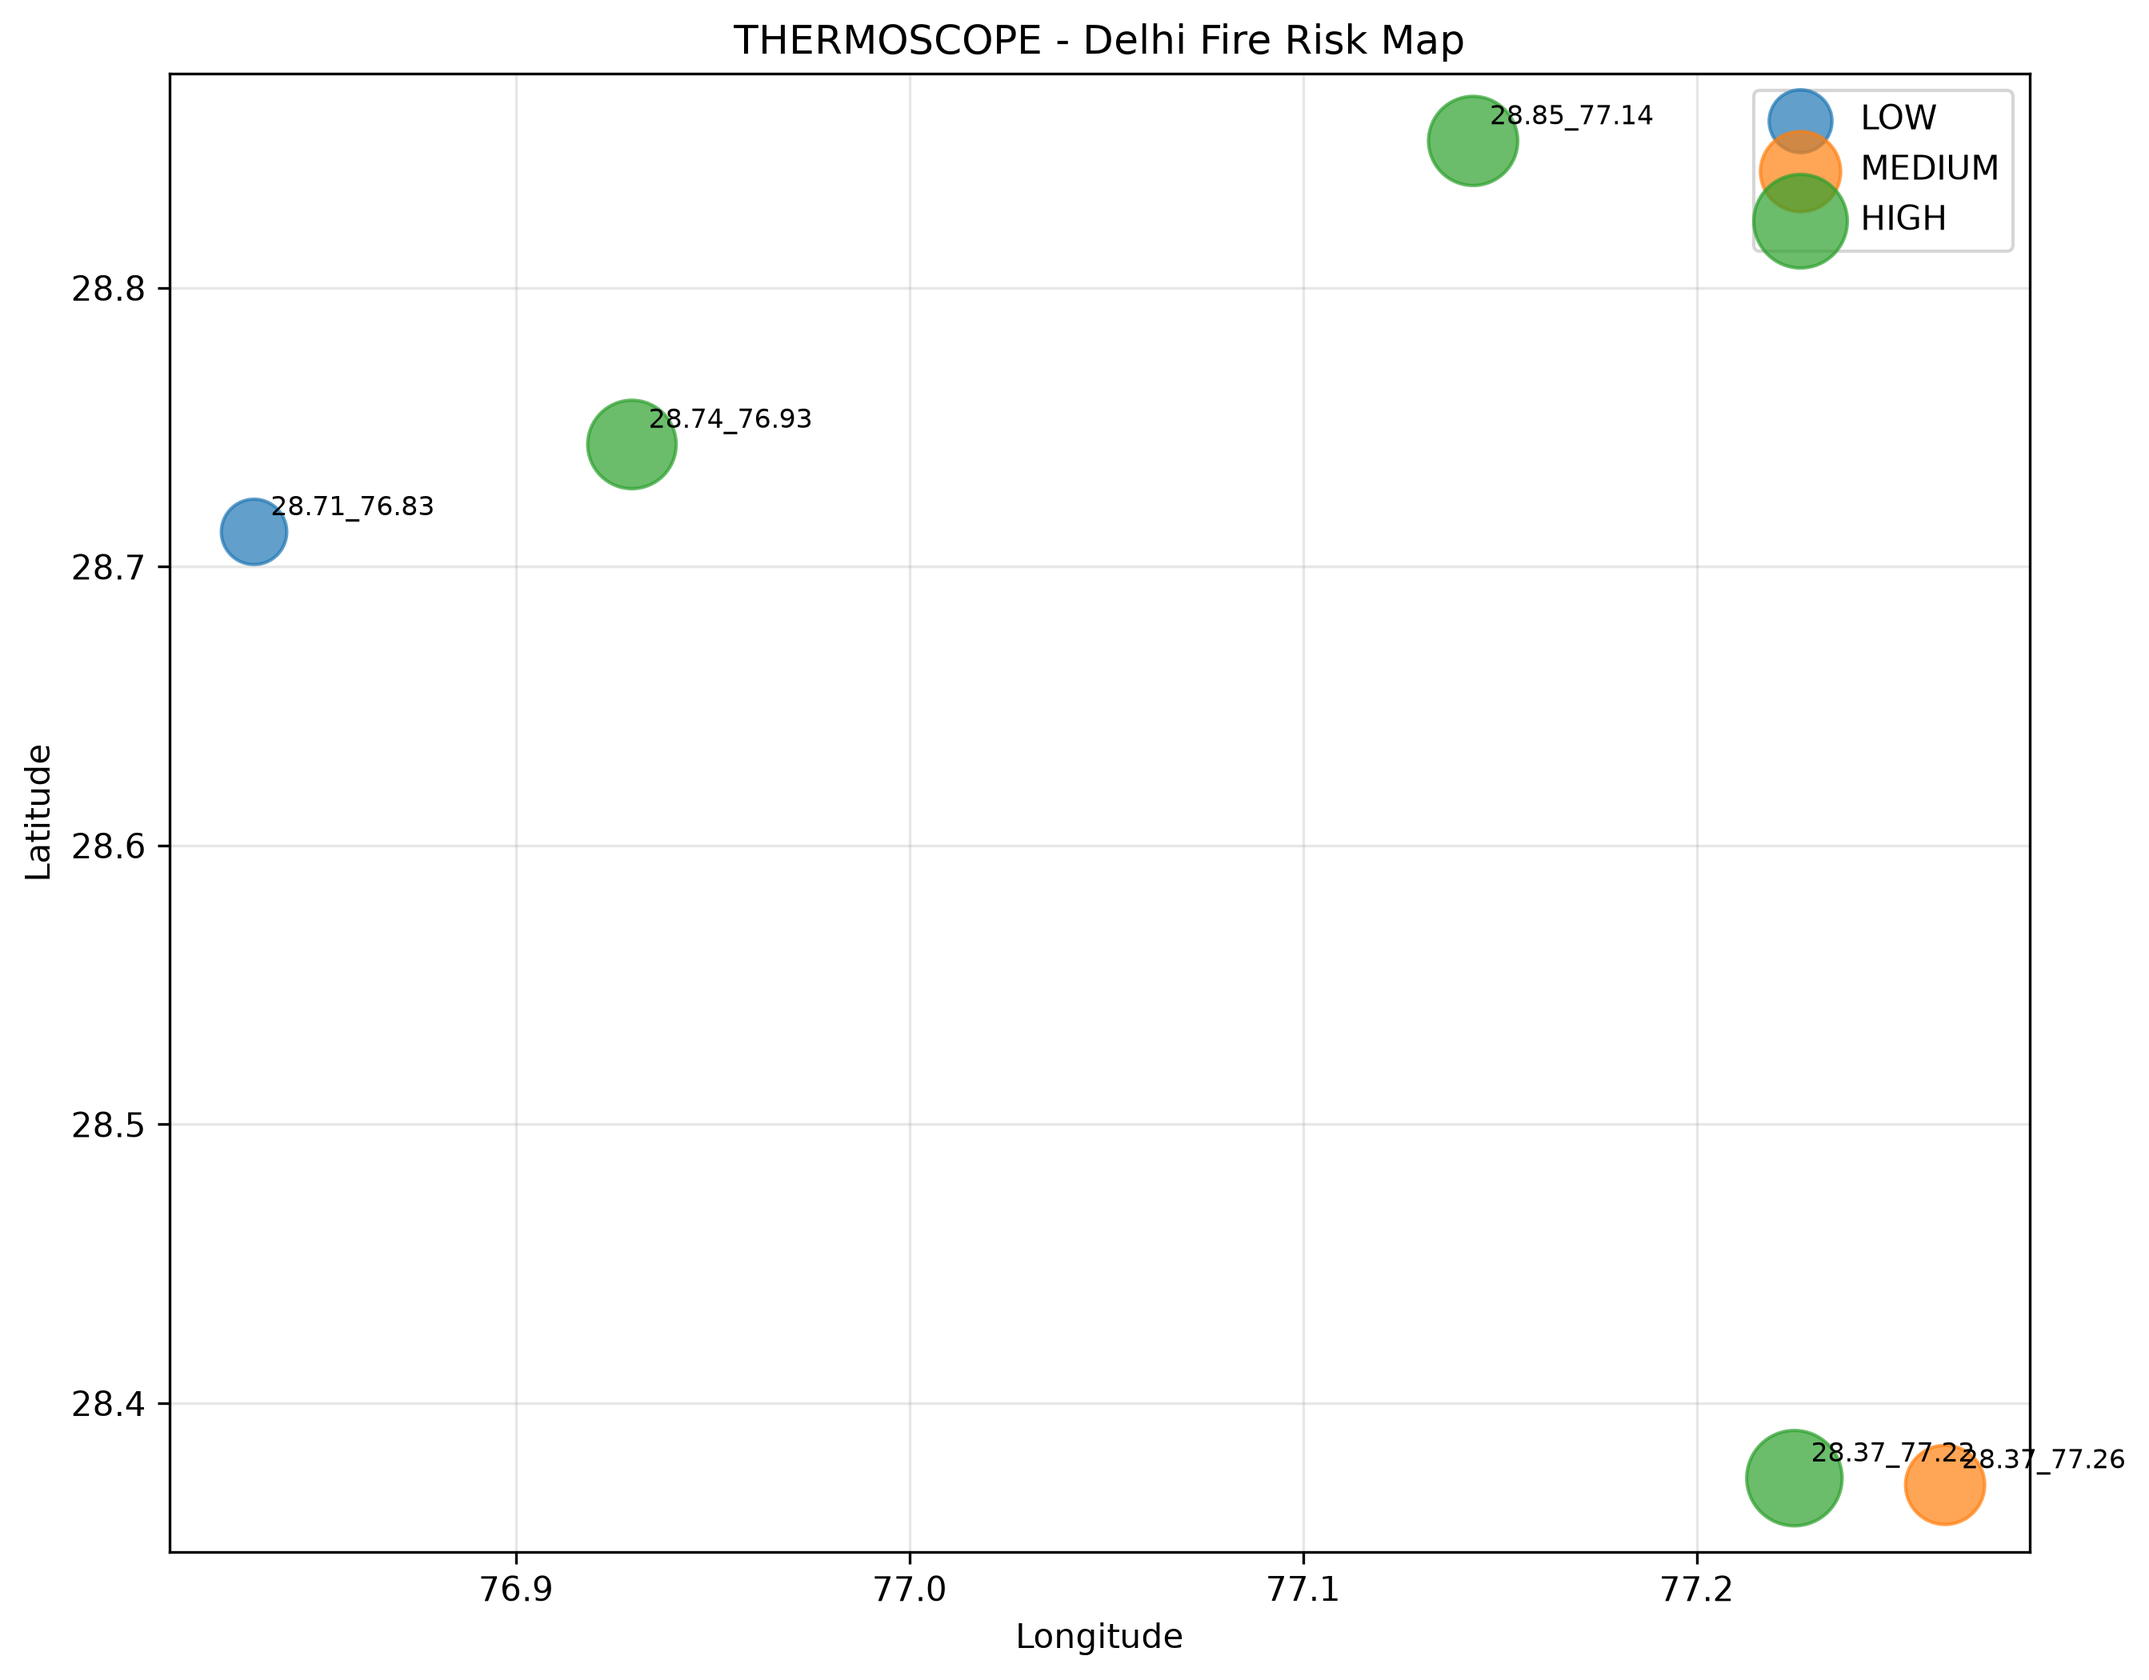
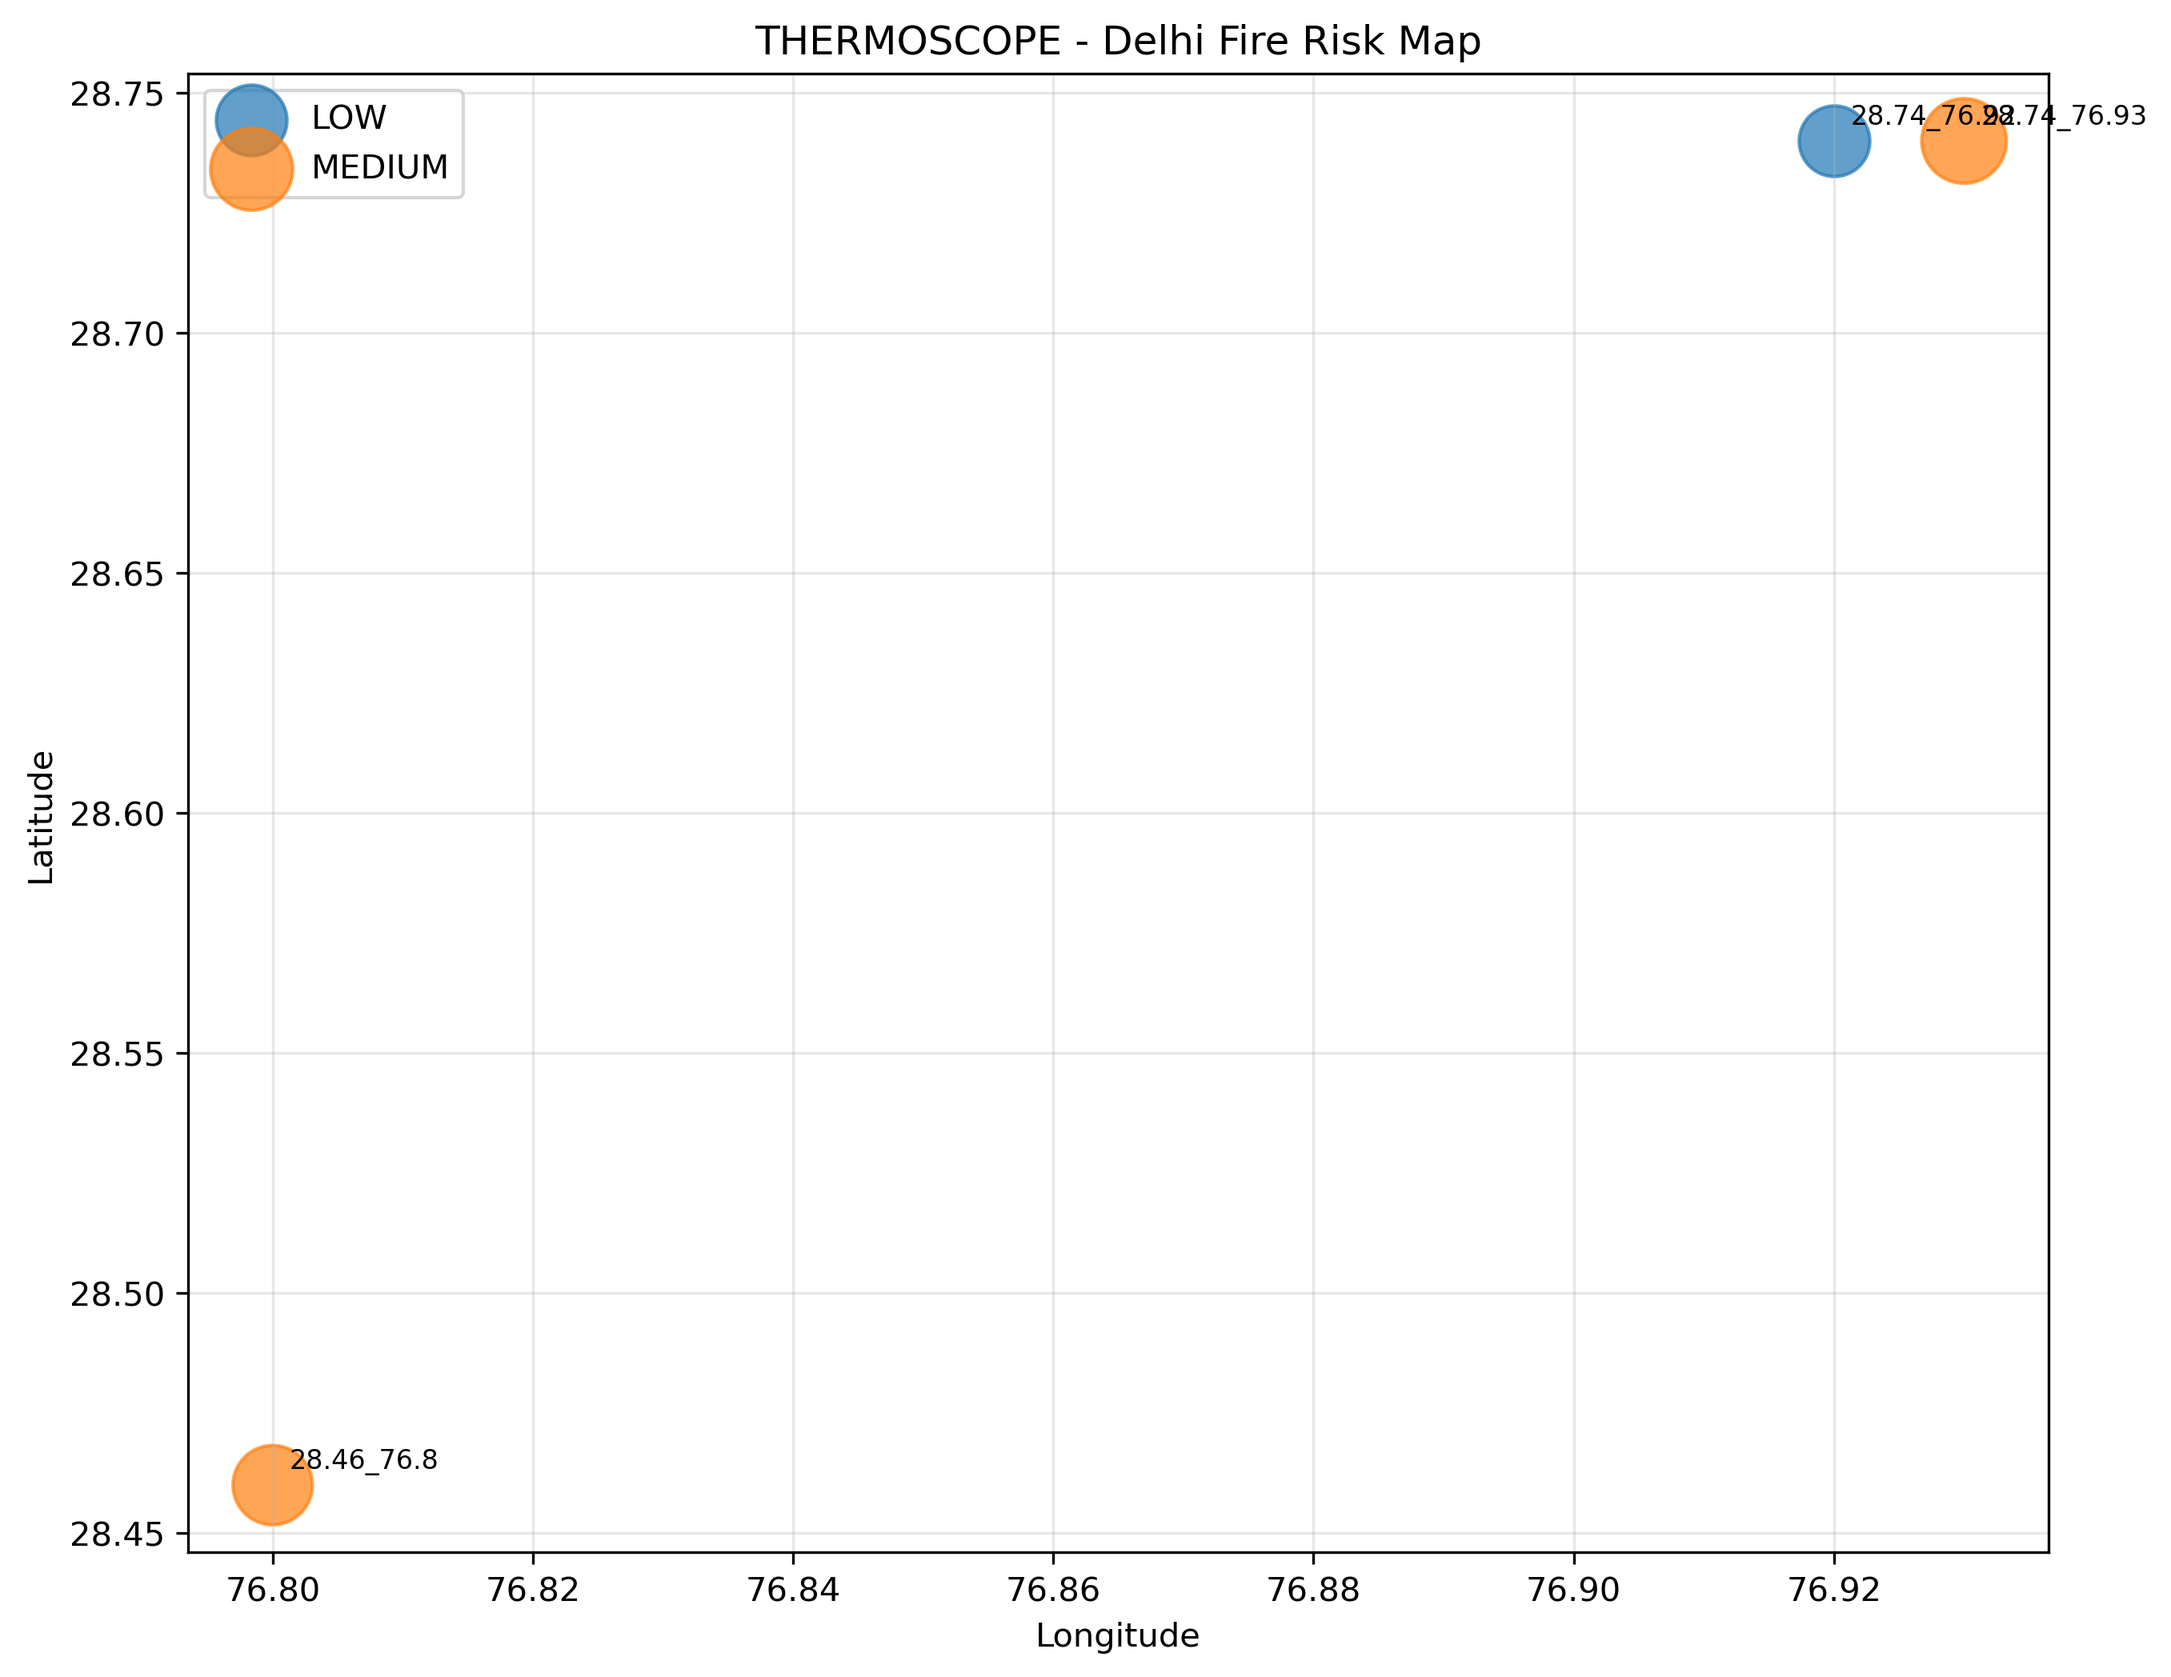
Add FIRMS interactive map and risk map

diff --git a/data/delhi_firms_interactive.html b/data/delhi_firms_interactive.html
@@ -1,0 +1,265 @@
+<!DOCTYPE html>
+<html>
+<head>
+    
+    <meta http-equiv="content-type" content="text/html; charset=UTF-8" />
+    <script src="https://cdn.jsdelivr.net/npm/leaflet@1.9.3/dist/leaflet.js"></script>
+    <script src="https://code.jquery.com/jquery-3.7.1.min.js"></script>
+    <script src="https://cdn.jsdelivr.net/npm/bootstrap@5.2.2/dist/js/bootstrap.bundle.min.js"></script>
+    <script src="https://cdnjs.cloudflare.com/ajax/libs/Leaflet.awesome-markers/2.0.2/leaflet.awesome-markers.js"></script>
+    <link rel="stylesheet" href="https://cdn.jsdelivr.net/npm/leaflet@1.9.3/dist/leaflet.css"/>
+    <link rel="stylesheet" href="https://cdn.jsdelivr.net/npm/bootstrap@5.2.2/dist/css/bootstrap.min.css"/>
+    <link rel="stylesheet" href="https://netdna.bootstrapcdn.com/bootstrap/3.0.0/css/bootstrap-glyphicons.css"/>
+    <link rel="stylesheet" href="https://cdn.jsdelivr.net/npm/@fortawesome/fontawesome-free@6.2.0/css/all.min.css"/>
+    <link rel="stylesheet" href="https://cdnjs.cloudflare.com/ajax/libs/Leaflet.awesome-markers/2.0.2/leaflet.awesome-markers.css"/>
+    <link rel="stylesheet" href="https://cdn.jsdelivr.net/gh/python-visualization/folium/folium/templates/leaflet.awesome.rotate.min.css"/>
+    
+            <meta name="viewport" content="width=device-width,
+                initial-scale=1.0, maximum-scale=1.0, user-scalable=no" />
+            <style>
+                #map_6998e40e5e25c07b57539587cf83b244 {
+                    position: relative;
+                    width: 100.0%;
+                    height: 100.0%;
+                    left: 0.0%;
+                    top: 0.0%;
+                }
+                .leaflet-container { font-size: 1rem; }
+            </style>
+
+            <style>html, body {
+                width: 100%;
+                height: 100%;
+                margin: 0;
+                padding: 0;
+            }
+            </style>
+
+            <style>#map {
+                position:absolute;
+                top:0;
+                bottom:0;
+                right:0;
+                left:0;
+                }
+            </style>
+
+            <script>
+                L_NO_TOUCH = false;
+                L_DISABLE_3D = false;
+            </script>
+
+        
+    <script src="https://cdnjs.cloudflare.com/ajax/libs/leaflet.markercluster/1.1.0/leaflet.markercluster.js"></script>
+    <link rel="stylesheet" href="https://cdnjs.cloudflare.com/ajax/libs/leaflet.markercluster/1.1.0/MarkerCluster.css"/>
+    <link rel="stylesheet" href="https://cdnjs.cloudflare.com/ajax/libs/leaflet.markercluster/1.1.0/MarkerCluster.Default.css"/>
+</head>
+<body>
+    
+    
+            <div class="folium-map" id="map_6998e40e5e25c07b57539587cf83b244" ></div>
+        
+</body>
+<script>
+    
+    
+            var map_6998e40e5e25c07b57539587cf83b244 = L.map(
+                "map_6998e40e5e25c07b57539587cf83b244",
+                {
+                    center: [28.67517, 76.9005],
+                    crs: L.CRS.EPSG3857,
+                    ...{
+  "zoom": 10,
+  "zoomControl": true,
+  "preferCanvas": false,
+}
+
+                }
+            );
+
+            
+
+        
+    
+            var tile_layer_34bd123450c96b30087801b7e7a01c25 = L.tileLayer(
+                "https://tile.openstreetmap.org/{z}/{x}/{y}.png",
+                {
+  "minZoom": 0,
+  "maxZoom": 19,
+  "maxNativeZoom": 19,
+  "noWrap": false,
+  "attribution": "\u0026copy; \u003ca href=\"https://www.openstreetmap.org/copyright\"\u003eOpenStreetMap\u003c/a\u003e contributors",
+  "subdomains": "abc",
+  "detectRetina": false,
+  "tms": false,
+  "opacity": 1,
+}
+
+            );
+        
+    
+            tile_layer_34bd123450c96b30087801b7e7a01c25.addTo(map_6998e40e5e25c07b57539587cf83b244);
+        
+    
+            var marker_cluster_38c369b13fbb198538be333a17449590 = L.markerClusterGroup(
+                {
+}
+            );
+        
+    
+            var circle_marker_2bcb6116486bb4b2713596ed783928ca = L.circleMarker(
+                [28.7445, 76.93399],
+                {"bubblingMouseEvents": true, "color": "#3388ff", "dashArray": null, "dashOffset": null, "fill": true, "fillColor": "#3388ff", "fillOpacity": 0.7, "fillRule": "evenodd", "lineCap": "round", "lineJoin": "round", "opacity": 1.0, "radius": 5, "stroke": true, "weight": 3}
+            ).addTo(marker_cluster_38c369b13fbb198538be333a17449590);
+        
+    
+        var popup_2f9e39041fce6d609924f856f53d93ed = L.popup({
+  "maxWidth": 300,
+});
+
+        
+            
+                var html_53ebb9c7edabe858ac9dafa6c213736e = $(`<div id="html_53ebb9c7edabe858ac9dafa6c213736e" style="width: 100.0%; height: 100.0%;">     <b>THERMOSCOPE - FIRMS Detection</b><br><br>      <b>Date:</b> 2026-07-29<br>     <b>Time:</b> 2055<br>     <b>Satellite:</b> N<br>     <b>FRP:</b> 0.59<br>     <b>Confidence:</b> n<br>     <b>Day/Night:</b> N<br>     <b>Latitude:</b> 28.74450<br>     <b>Longitude:</b> 76.93399     </div>`)[0];
+                popup_2f9e39041fce6d609924f856f53d93ed.setContent(html_53ebb9c7edabe858ac9dafa6c213736e);
+            
+        
+
+        circle_marker_2bcb6116486bb4b2713596ed783928ca.bindPopup(popup_2f9e39041fce6d609924f856f53d93ed)
+        ;
+
+        
+    
+    
+            circle_marker_2bcb6116486bb4b2713596ed783928ca.bindTooltip(
+                `<div>
+                     FIRMS Fire Detection
+                 </div>`,
+                {
+  "sticky": true,
+}
+            );
+        
+    
+            var circle_marker_1c1876aa450971eebb134f4cc00a728b = L.circleMarker(
+                [28.46732, 76.80379],
+                {"bubblingMouseEvents": true, "color": "#3388ff", "dashArray": null, "dashOffset": null, "fill": true, "fillColor": "#3388ff", "fillOpacity": 0.7, "fillRule": "evenodd", "lineCap": "round", "lineJoin": "round", "opacity": 1.0, "radius": 5, "stroke": true, "weight": 3}
+            ).addTo(marker_cluster_38c369b13fbb198538be333a17449590);
+        
+    
+        var popup_56405226102226df7030f6961c881b70 = L.popup({
+  "maxWidth": 300,
+});
+
+        
+            
+                var html_73c5913c12316c196d99f0d621fa5ad3 = $(`<div id="html_73c5913c12316c196d99f0d621fa5ad3" style="width: 100.0%; height: 100.0%;">     <b>THERMOSCOPE - FIRMS Detection</b><br><br>      <b>Date:</b> 2026-07-30<br>     <b>Time:</b> 813<br>     <b>Satellite:</b> N<br>     <b>FRP:</b> 4.16<br>     <b>Confidence:</b> n<br>     <b>Day/Night:</b> D<br>     <b>Latitude:</b> 28.46732<br>     <b>Longitude:</b> 76.80379     </div>`)[0];
+                popup_56405226102226df7030f6961c881b70.setContent(html_73c5913c12316c196d99f0d621fa5ad3);
+            
+        
+
+        circle_marker_1c1876aa450971eebb134f4cc00a728b.bindPopup(popup_56405226102226df7030f6961c881b70)
+        ;
+
+        
+    
+    
+            circle_marker_1c1876aa450971eebb134f4cc00a728b.bindTooltip(
+                `<div>
+                     FIRMS Fire Detection
+                 </div>`,
+                {
+  "sticky": true,
+}
+            );
+        
+    
+            var circle_marker_f71ba4895bd658a159f1ee51772e8b9d = L.circleMarker(
+                [28.74383, 76.93636],
+                {"bubblingMouseEvents": true, "color": "#3388ff", "dashArray": null, "dashOffset": null, "fill": true, "fillColor": "#3388ff", "fillOpacity": 0.7, "fillRule": "evenodd", "lineCap": "round", "lineJoin": "round", "opacity": 1.0, "radius": 5, "stroke": true, "weight": 3}
+            ).addTo(marker_cluster_38c369b13fbb198538be333a17449590);
+        
+    
+        var popup_a2be178a5ad56465bcebf18666ec46f2 = L.popup({
+  "maxWidth": 300,
+});
+
+        
+            
+                var html_1c673d430a943d5020973f08cc64c9cb = $(`<div id="html_1c673d430a943d5020973f08cc64c9cb" style="width: 100.0%; height: 100.0%;">     <b>THERMOSCOPE - FIRMS Detection</b><br><br>      <b>Date:</b> 2026-07-30<br>     <b>Time:</b> 2038<br>     <b>Satellite:</b> N<br>     <b>FRP:</b> 1.62<br>     <b>Confidence:</b> n<br>     <b>Day/Night:</b> N<br>     <b>Latitude:</b> 28.74383<br>     <b>Longitude:</b> 76.93636     </div>`)[0];
+                popup_a2be178a5ad56465bcebf18666ec46f2.setContent(html_1c673d430a943d5020973f08cc64c9cb);
+            
+        
+
+        circle_marker_f71ba4895bd658a159f1ee51772e8b9d.bindPopup(popup_a2be178a5ad56465bcebf18666ec46f2)
+        ;
+
+        
+    
+    
+            circle_marker_f71ba4895bd658a159f1ee51772e8b9d.bindTooltip(
+                `<div>
+                     FIRMS Fire Detection
+                 </div>`,
+                {
+  "sticky": true,
+}
+            );
+        
+    
+            var circle_marker_853de7b0c95065cf4936ffcd2e9273cf = L.circleMarker(
+                [28.74503, 76.92786],
+                {"bubblingMouseEvents": true, "color": "#3388ff", "dashArray": null, "dashOffset": null, "fill": true, "fillColor": "#3388ff", "fillOpacity": 0.7, "fillRule": "evenodd", "lineCap": "round", "lineJoin": "round", "opacity": 1.0, "radius": 5, "stroke": true, "weight": 3}
+            ).addTo(marker_cluster_38c369b13fbb198538be333a17449590);
+        
+    
+        var popup_add9412605ec4ac66467df33e88595da = L.popup({
+  "maxWidth": 300,
+});
+
+        
+            
+                var html_fa4f4a5d08d4c3a06f021620aa122ba4 = $(`<div id="html_fa4f4a5d08d4c3a06f021620aa122ba4" style="width: 100.0%; height: 100.0%;">     <b>THERMOSCOPE - FIRMS Detection</b><br><br>      <b>Date:</b> 2026-07-30<br>     <b>Time:</b> 2038<br>     <b>Satellite:</b> N<br>     <b>FRP:</b> 1.73<br>     <b>Confidence:</b> n<br>     <b>Day/Night:</b> N<br>     <b>Latitude:</b> 28.74503<br>     <b>Longitude:</b> 76.92786     </div>`)[0];
+                popup_add9412605ec4ac66467df33e88595da.setContent(html_fa4f4a5d08d4c3a06f021620aa122ba4);
+            
+        
+
+        circle_marker_853de7b0c95065cf4936ffcd2e9273cf.bindPopup(popup_add9412605ec4ac66467df33e88595da)
+        ;
+
+        
+    
+    
+            circle_marker_853de7b0c95065cf4936ffcd2e9273cf.bindTooltip(
+                `<div>
+                     FIRMS Fire Detection
+                 </div>`,
+                {
+  "sticky": true,
+}
+            );
+        
+    
+            marker_cluster_38c369b13fbb198538be333a17449590.addTo(map_6998e40e5e25c07b57539587cf83b244);
+        
+    
+            var layer_control_6d3b6cce01b412544500952be07dd893_layers = {
+                base_layers : {
+                    "openstreetmap" : tile_layer_34bd123450c96b30087801b7e7a01c25,
+                },
+                overlays :  {
+                    "FIRMS Fire Detections" : marker_cluster_38c369b13fbb198538be333a17449590,
+                },
+            };
+            let layer_control_6d3b6cce01b412544500952be07dd893 = L.control.layers(
+                layer_control_6d3b6cce01b412544500952be07dd893_layers.base_layers,
+                layer_control_6d3b6cce01b412544500952be07dd893_layers.overlays,
+                {
+  "position": "topright",
+  "collapsed": true,
+  "autoZIndex": true,
+}
+            ).addTo(map_6998e40e5e25c07b57539587cf83b244);
+
+        
+</script>
+</html>

diff --git a/src/risk_map.py b/src/risk_map.py
@@ -8,40 +8,29 @@ print("=" * 60)
 # Load prediction data
 pred = pd.read_csv("data/delhi_risk_predictions.csv")
 
-# Load original FIRMS data
-firms = pd.read_csv("data/delhi_master.csv")
-
 print("\nLoaded prediction cells:", len(pred))
-print("Loaded FIRMS observations:", len(firms))
 
 # --------------------------------------------------
-# Get coordinates for each grid cell
+# Use grid coordinates directly from predictions
 # --------------------------------------------------
 
-firms["grid_id"] = (
-    firms["latitude"].round(2).astype(str)
-    + "_"
-    + firms["longitude"].round(2).astype(str)
+df = pred.copy()
+
+df["latitude"] = pd.to_numeric(
+    df["grid_lat"],
+    errors="coerce"
 )
 
-# Average coordinates for each grid
-coordinates = (
-    firms.groupby("grid_id")
-    .agg(
-        latitude=("latitude", "mean"),
-        longitude=("longitude", "mean")
-    )
-    .reset_index()
+df["longitude"] = pd.to_numeric(
+    df["grid_lon"],
+    errors="coerce"
 )
 
-# --------------------------------------------------
-# Merge coordinates with predictions
-# --------------------------------------------------
-
-df = pred.merge(
-    coordinates,
-    on="grid_id",
-    how="left"
+print(
+    "\nCoordinates matched:",
+    df["latitude"].notna().sum(),
+    "/",
+    len(df)
 )
 
 print("\nCoordinates matched:",
@@ -57,7 +46,7 @@ plt.figure(figsize=(10, 8))
 
 for risk in ["LOW", "MEDIUM", "HIGH"]:
 
-    subset = df[df["predicted_risk"] == risk]
+    subset = df[df["risk_category"] == risk]
 
     if len(subset) == 0:
         continue
@@ -106,14 +95,14 @@ plt.savefig(
     bbox_inches="tight"
 )
 
-plt.show()
+
 
 # --------------------------------------------------
 # Summary
 # --------------------------------------------------
 
 print("\nRisk distribution:")
-print(df["predicted_risk"].value_counts())
+print(df["risk_category"].value_counts())
 
 print("\nMap saved to:")
 print(output)
